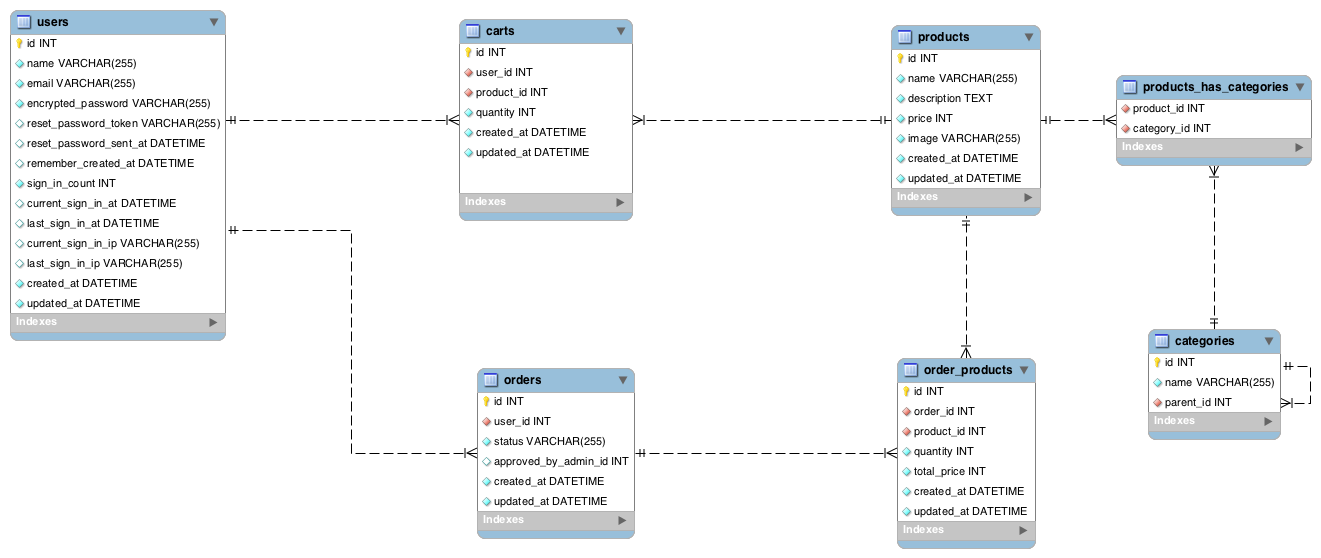
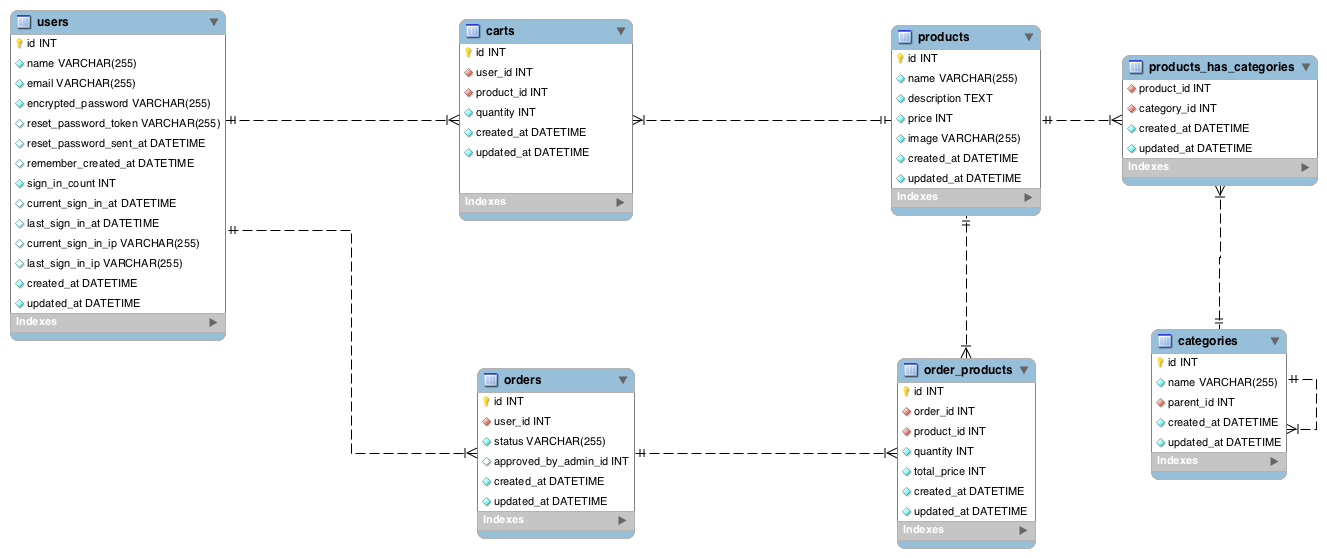
Add category table to database design :clipboard:

diff --git a/db/migrate/20170418090834_create_categories.rb b/db/migrate/20170418090834_create_categories.rb
@@ -1,0 +1,8 @@
+class CreateCategories < ActiveRecord::Migration[5.0]
+  def change
+    create_table :categories do |t|
+      t.string :name,      null: false, default: ""
+      t.int    :parent_id, null: false, default: 0
+    end
+  end
+end
